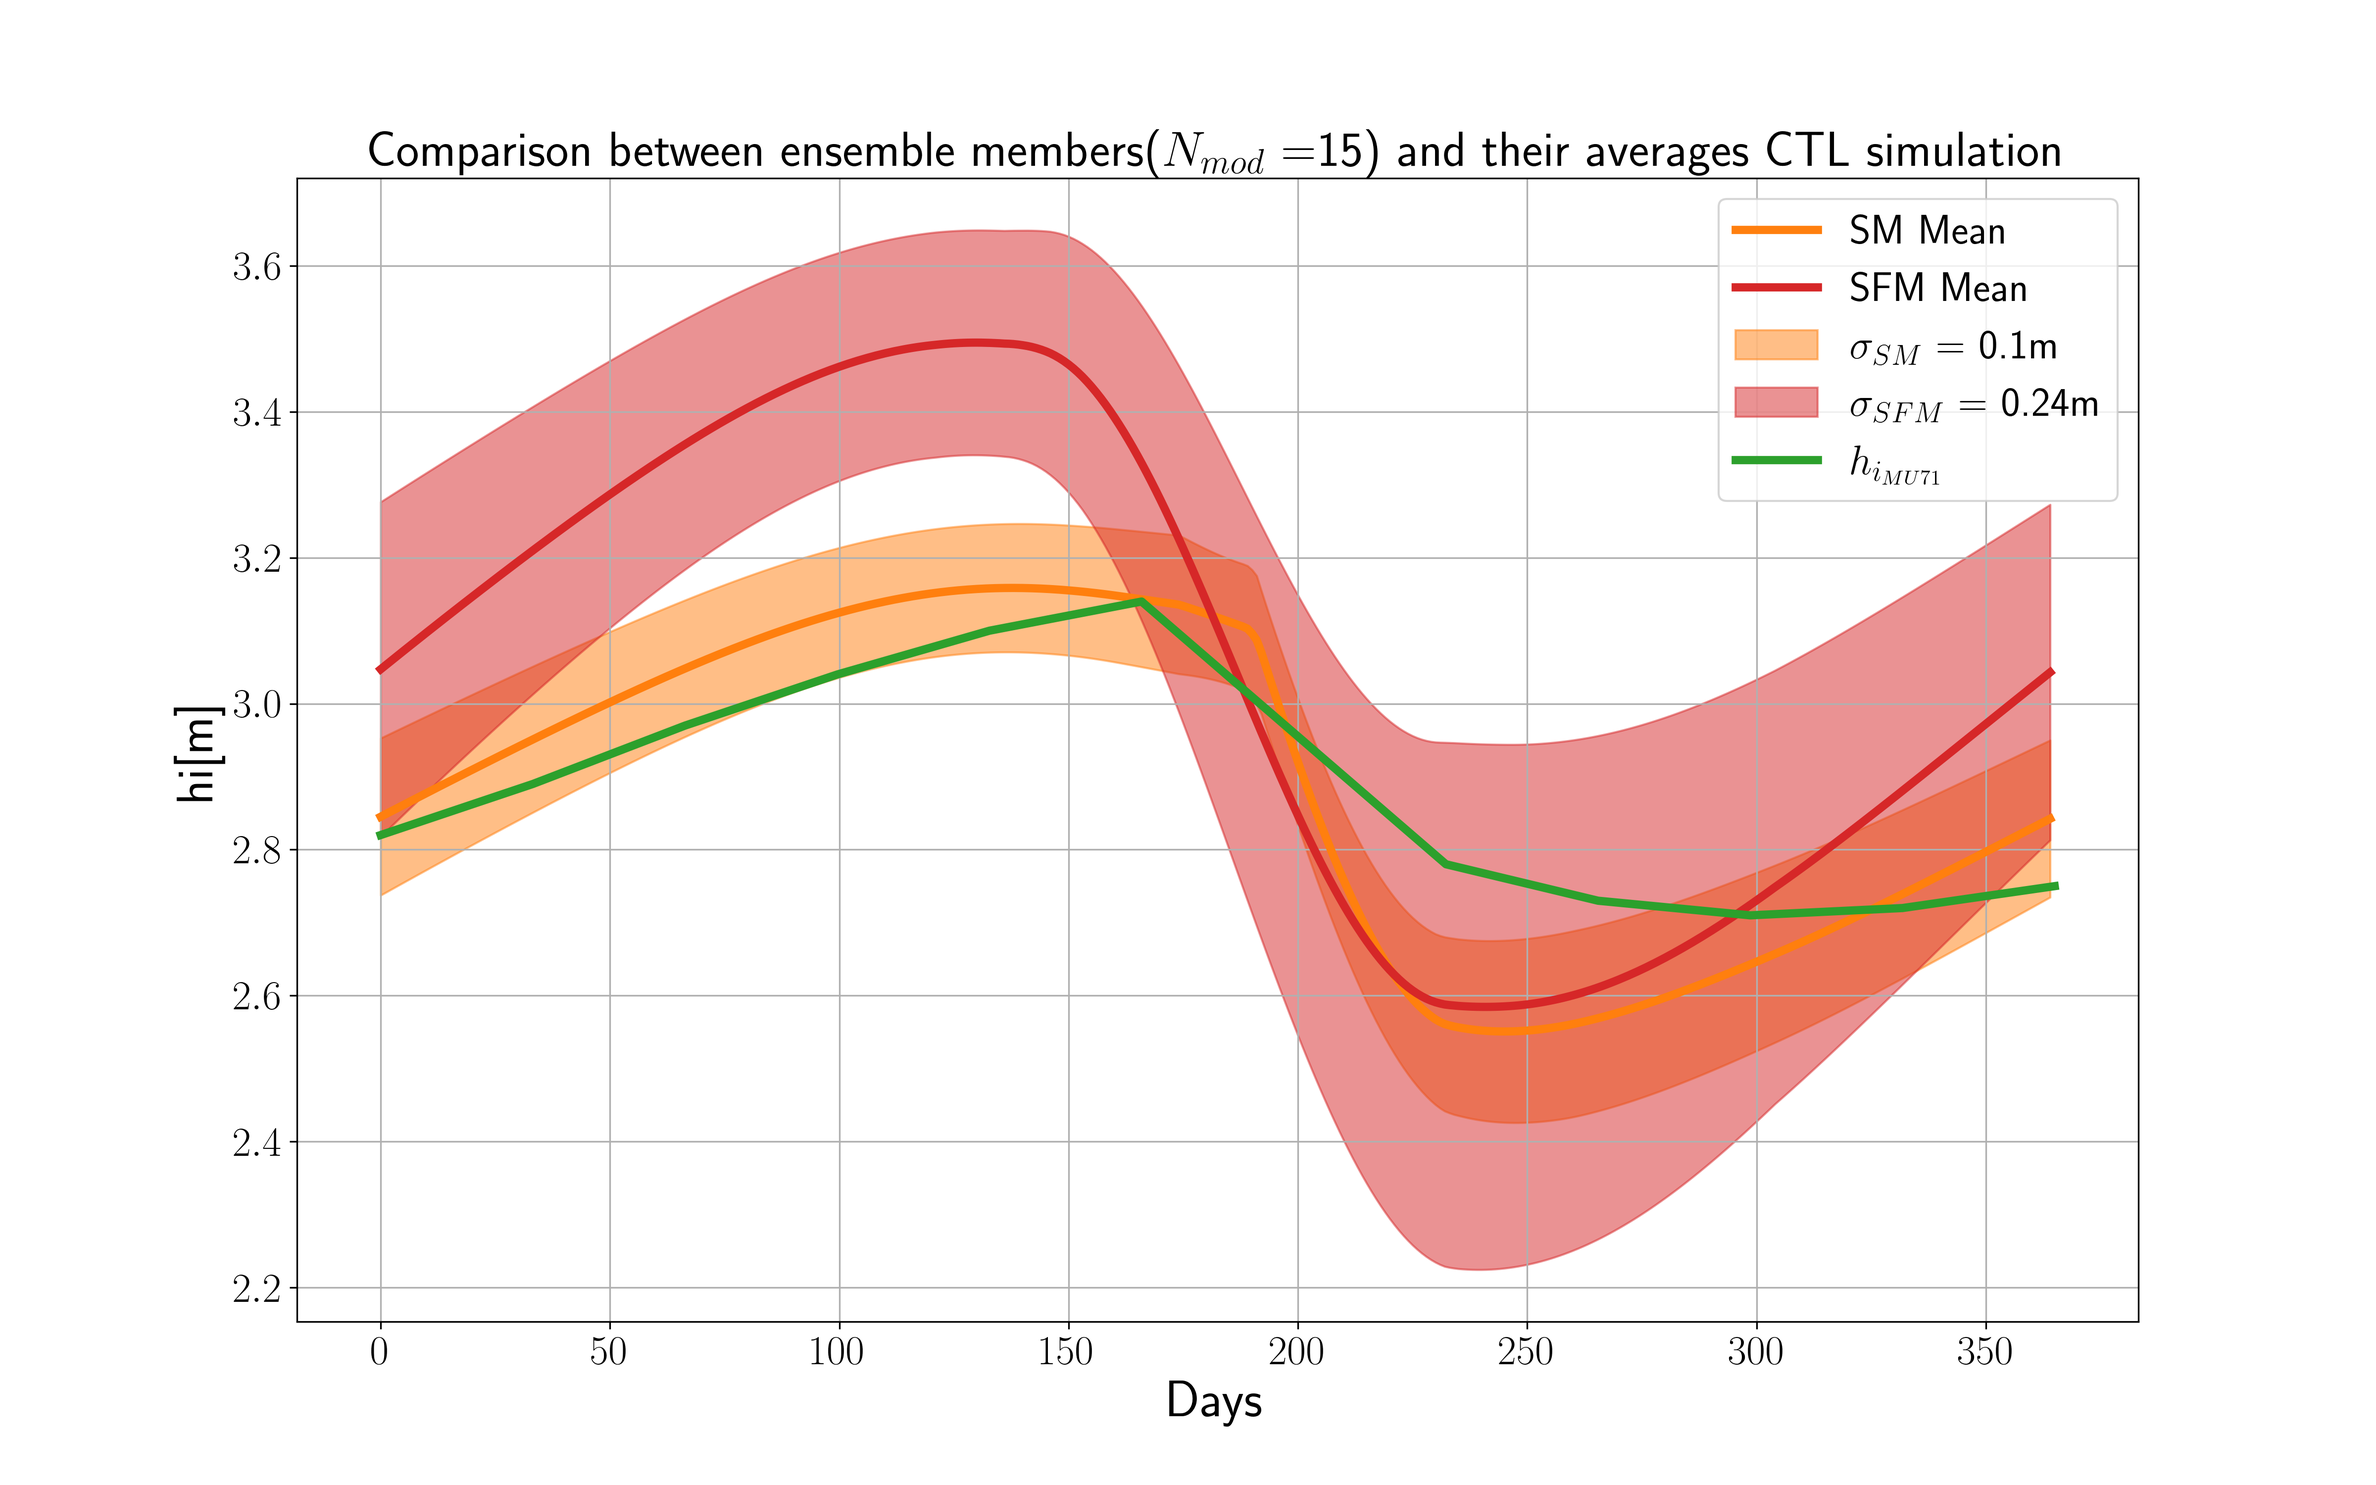
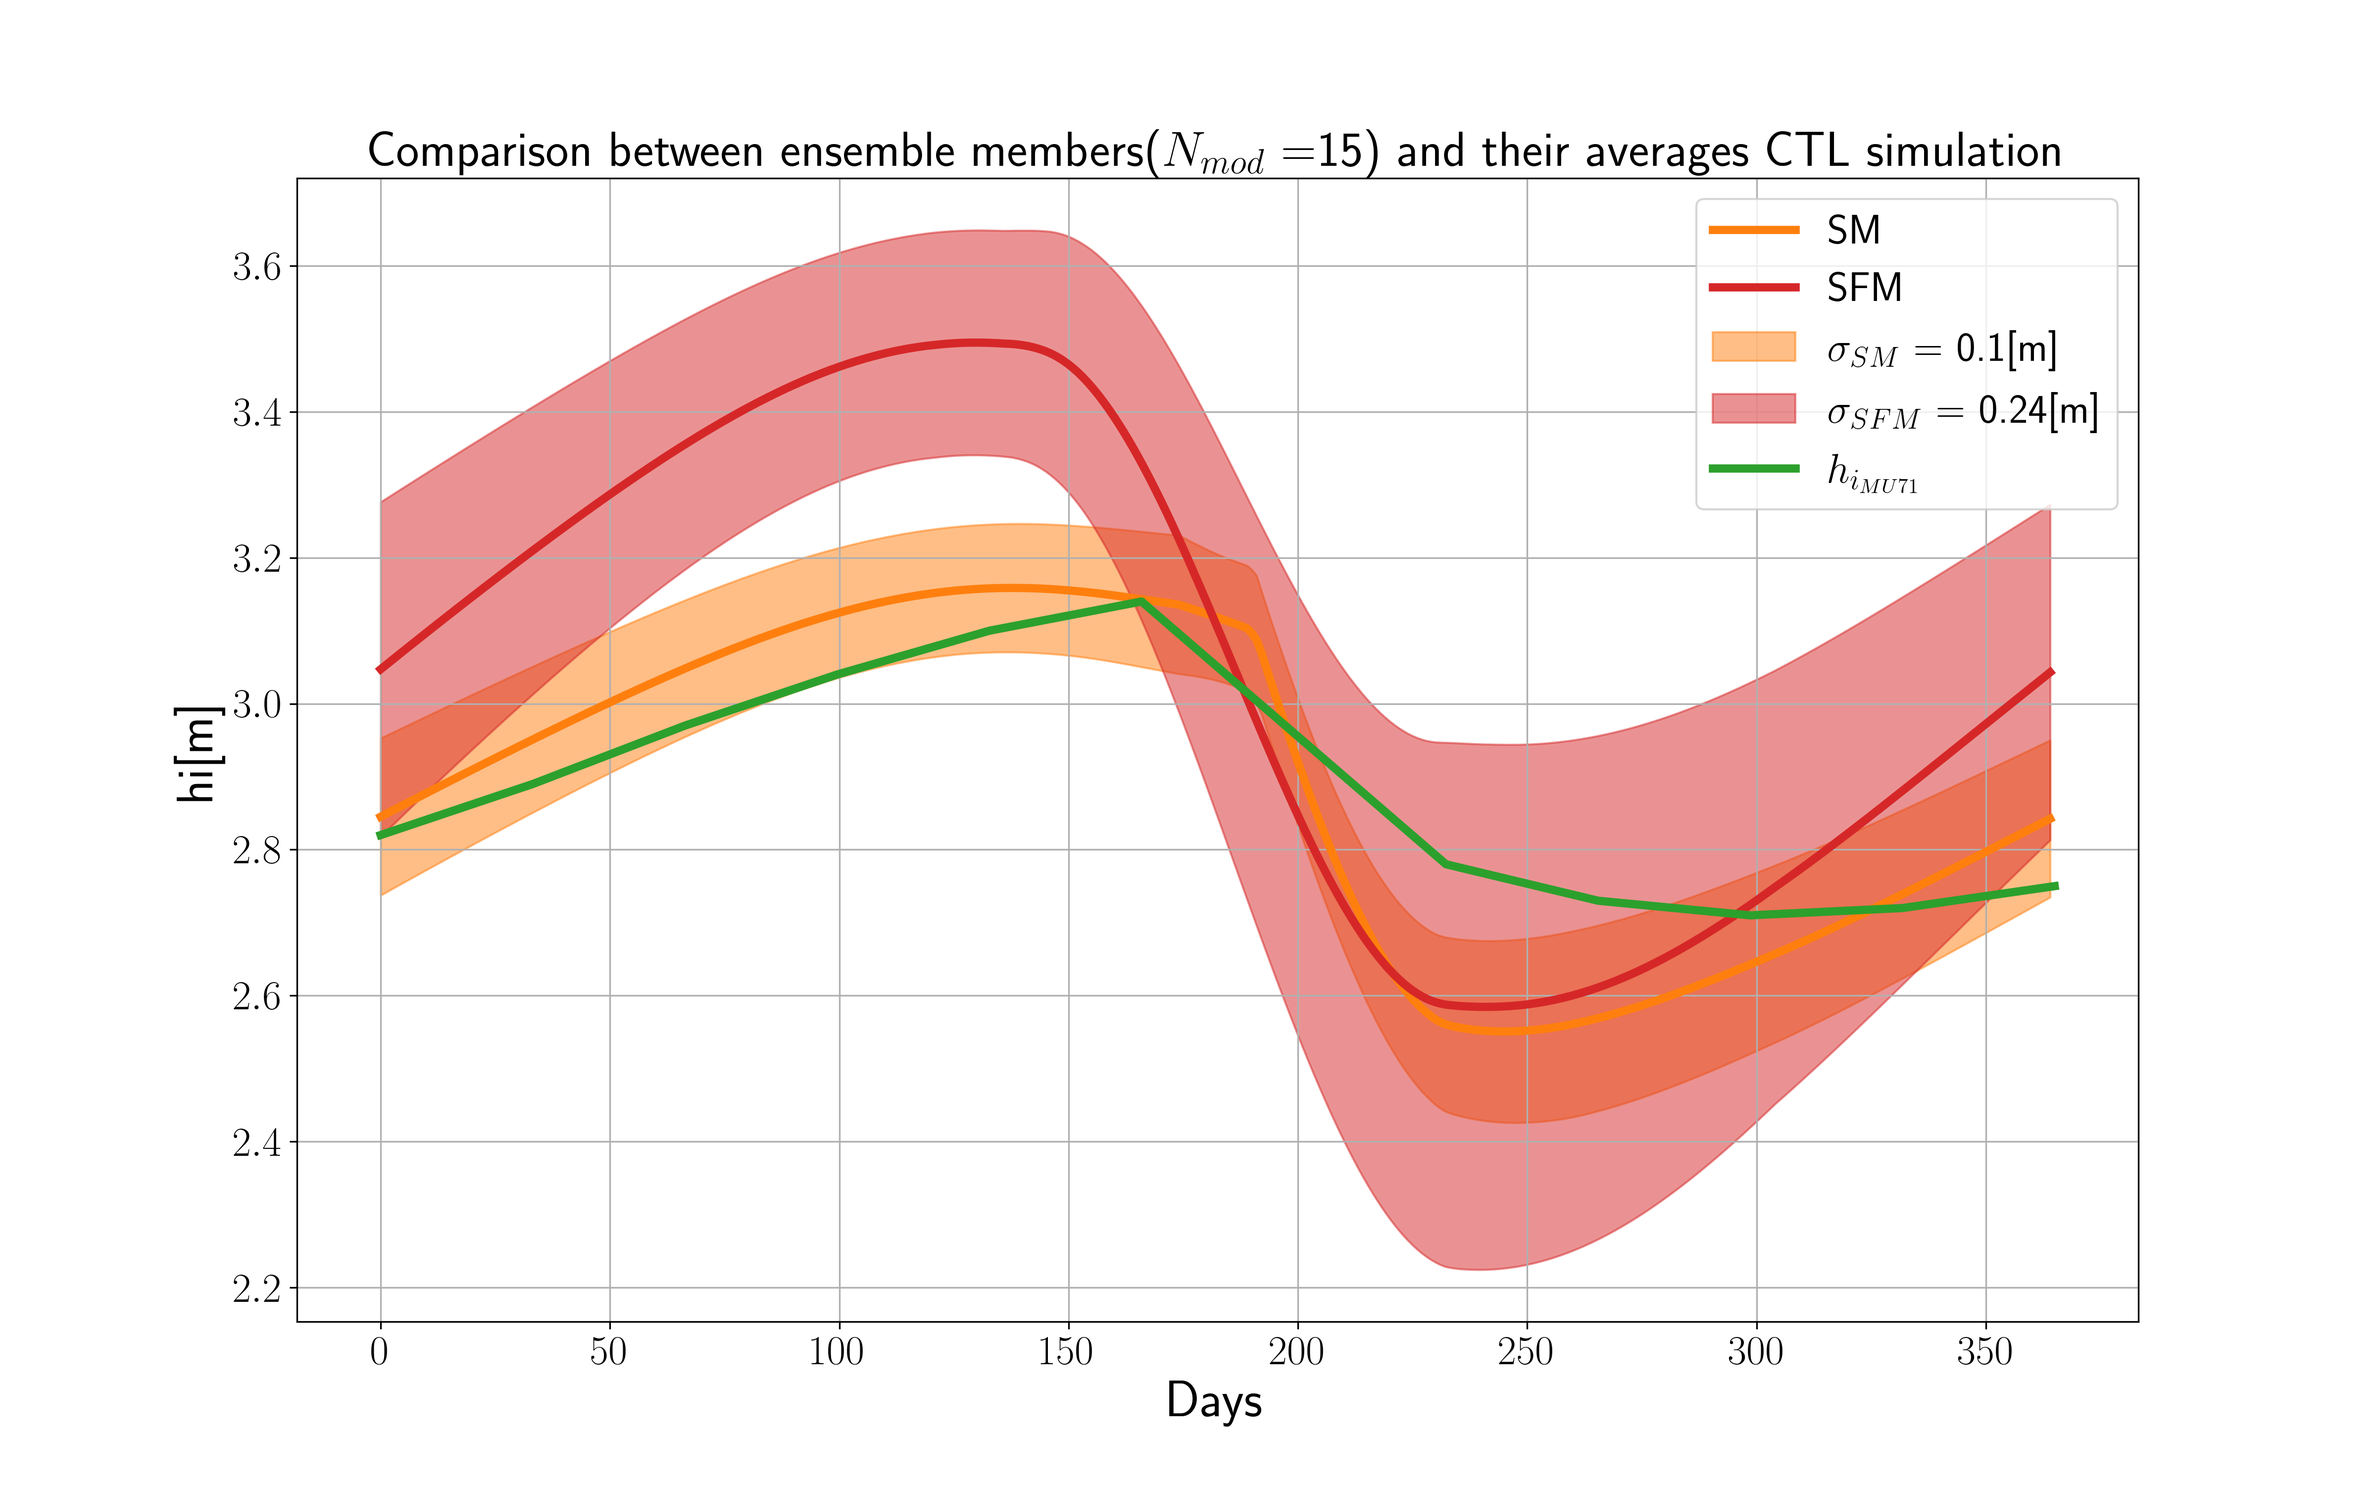
Upgrade plot_all_mod2() and subplot_all_mod2() + Figures

Changed region(s): [[0.7188, 0.124, 0.875, 0.341]]

diff --git a/Ensemble Projections/data_analysis.py b/Ensemble Projections/data_analysis.py
@@ -639,18 +639,31 @@ def plot_all_mod2(
         unit = "[°K]"
     N_mod_str = str(N_mod)
 
+    if (
+        data_name == "hi"
+        or data_name == "hi_mean_month"
+        or data_name == "himax"
+        or data_name == "himean"
+        or data_name == "himin"
+    ):
+        unit = "[m]"
+    if data_name == "Tsu" or data_name == "Tsu_mean_month" or data_name == "Tsumin":
+        unit = "[°K]"
+    if data_name == "hs" or data_name == "hs_mean_month" or data_name == "hsmax":
+        unit = "[m]"
     ####### - Plots - ######
 
     ##- Individuals models - ##
     if display_single_models:
         # without snow
-        plt.plot(
-            time_range,
-            np.take(data, model_index_without_snow, axis=1),
-            alpha=0.6,
-            linewidth=1 * lab_size_fact_mod,
-            color="tab:red",
-        )
+        if data_name != "hs":
+            plt.plot(
+                time_range,
+                np.take(data, model_index_without_snow, axis=1),
+                alpha=0.6,
+                linewidth=1 * lab_size_fact_mod,
+                color="tab:red",
+            )
         # with snow
         plt.plot(
             time_range,
@@ -670,13 +683,14 @@ def plot_all_mod2(
         label=r"SM",
     )
     # Without snow
-    plt.plot(
-        time_range,
-        np.mean(np.take(data, model_index_without_snow, axis=1), axis=1),
-        linewidth=4 * lab_size_fact,
-        color="tab:red",
-        label=r"SFM",
-    )
+    if data_name != "hs":
+        plt.plot(
+            time_range,
+            np.mean(np.take(data, model_index_without_snow, axis=1), axis=1),
+            linewidth=4 * lab_size_fact,
+            color="tab:red",
+            label=r"SFM",
+        )
 
     ## - Std - ##
 
@@ -692,45 +706,67 @@ def plot_all_mod2(
         + np.std(np.delete(data, model_index_without_snow, axis=1), axis=1),
         alpha=0.5,
         color="tab:orange",
-        label=r"$\sigma_{SM}$ = " + str(mean_std) + r"m",
+        label=r"$\sigma_{SM}$ = " + str(mean_std) + unit,
     )
-
-    # Without snow
-    mean_std = round(
-        np.mean(np.std(np.take(data, model_index_without_snow, axis=1), axis=1)), 2
-    )
-    plt.fill_between(
-        time_range,
-        np.mean(np.take(data, model_index_without_snow, axis=1), axis=1)
-        - np.std(np.take(data, model_index_without_snow, axis=1), axis=1),
-        np.mean(np.take(data, model_index_without_snow, axis=1), axis=1)
-        + np.std(np.take(data, model_index_without_snow, axis=1), axis=1),
-        alpha=0.5,
-        color="tab:red",
-        label=r"$\sigma_{SFM}$ = " + str(mean_std) + r"m",
-    )
+    if data_name != "hs":
+        # Without snow
+        mean_std = round(
+            np.mean(np.std(np.take(data, model_index_without_snow, axis=1), axis=1)), 2
+        )
+        plt.fill_between(
+            time_range,
+            np.mean(np.take(data, model_index_without_snow, axis=1), axis=1)
+            - np.std(np.take(data, model_index_without_snow, axis=1), axis=1),
+            np.mean(np.take(data, model_index_without_snow, axis=1), axis=1)
+            + np.std(np.take(data, model_index_without_snow, axis=1), axis=1),
+            alpha=0.5,
+            color="tab:red",
+            label=r"$\sigma_{SFM}$ = " + str(mean_std) + unit,
+        )
 
     #### - Ensemble model Mean - ####
     if model_mean:
         ## - Mean - ##
+        mean_ENS = mean_all_mod(data)
         plt.plot(
             time_range,
-            np.mean(data, axis=1),
+            mean_ENS,
             linewidth=4 * lab_size_fact,
             color="tab:blue",
             label=r"ENS",
         )
 
         ## - Std - ##
-        mean_std = round(np.mean(np.std(data, axis=1)), 2)
-        plt.fill_between(
-            time_range,
-            np.mean(data, axis=1) - np.std(data, axis=1),
-            np.mean(data, axis=1) + np.std(data, axis=1),
-            alpha=0.5,
-            color="tab:blue",
-            label=r"$\sigma_{ENS}$ = " + str(mean_std) + r"m",
-        )
+        if data_name == "hs":
+            # print("mean_ENS", mean_ENS)
+            std = np.std(mean_ENS)
+            # print(std)
+            std_round = round(std, 2)
+            std_str = str(std_round)
+
+            plt.fill_between(
+                time_range,
+                mean_ENS - std,
+                mean_ENS + std,
+                alpha=0.5,
+                color="tab:blue",
+                label=r"$\sigma_{ENS}$ = " + std_str + unit,
+            )
+        else:
+            # print("data", data)
+            std = np.mean(np.std(data, axis=1))
+            # print(std)
+            std_round = round(std, 2)
+            std_str = str(std_round)
+            # mean_std = round(np.mean(np.std(data, axis=1)), 2)
+            plt.fill_between(
+                time_range,
+                np.mean(data, axis=1) - np.std(data, axis=1),
+                np.mean(data, axis=1) + np.std(data, axis=1),
+                alpha=0.5,
+                color="tab:blue",
+                label=r"$\sigma_{ENS}$ = " + std_str + unit,
+            )
 
     ## - MU71 - ##
     if data_name == "hi":
@@ -770,18 +806,6 @@ def plot_all_mod2(
         size=24 * lab_size_fact,
     )
     plt.xlabel(label_x, size=25 * lab_size_fact)
-    if (
-        data_name == "hi"
-        or data_name == "hi_mean_month"
-        or data_name == "himax"
-        or data_name == "himean"
-        or data_name == "himin"
-    ):
-        unit = "[m]"
-    if data_name == "Tsu" or data_name == "Tsu_mean_month" or data_name == "Tsumin":
-        unit = "[°K]"
-    if data_name == "hs" or data_name == "hs_mean_month" or data_name == "hsmax":
-        unit = "[m]"
     plt.ylabel(data_name + unit, size=25 * lab_size_fact)
     plt.xticks(fontsize=20 * lab_size_fact)
     plt.yticks(fontsize=20 * lab_size_fact)
@@ -889,7 +913,7 @@ def subplot_all_mod(data1, data2, data3, data_name, N_mod, extra_label):
 
 
 def subplot_all_mod2(data, data_name, N_mod, extra_label, display_single_models=False):
-    figure = plt.figure(figsize=(16, 10))
+    fig = plt.figure(figsize=(16, 10))
     # gs = gridspec.GridSpec(2, 2, wspace=0.25, hspace=0.1, left=0.001, right=0.98)
 
     if data_name == "hi_mean_month":
@@ -920,7 +944,7 @@ def subplot_all_mod2(data, data_name, N_mod, extra_label, display_single_models=
 
     ####### - Plots - ######
 
-    fig = plt.figure()
+    # fig = plt.figure()
     """ ax1 = plt.subplot(2,2,1)
     ax2 = plt.subplot(2,2,2)
     ax3 = plt.subplot(2,1,2)
@@ -931,7 +955,7 @@ def subplot_all_mod2(data, data_name, N_mod, extra_label, display_single_models=
     ax3 = plt.subplot2grid((4, 4), (3, 0), colspan=2)
     ax4 = plt.subplot2grid((4, 4), (3, 2), colspan=2)
     axs = [ax1, ax2, ax3, ax4]
-    gs = gridspec.GridSpec(2, 2, wspace=0.25, hspace=0.5, left=0.001, right=0.98)
+    plt.subplots_adjust(bottom=0.08, right=0.97, left=0.09, top=0.9)
 
     ##### - Left subplots - ####
     ##- Individuals models - ##
@@ -985,7 +1009,7 @@ def subplot_all_mod2(data, data_name, N_mod, extra_label, display_single_models=
         + np.std(np.delete(data, model_index_without_snow, axis=1), axis=1),
         alpha=0.5,
         color="tab:orange",
-        label=r"$\sigma_{SM}$ = " + str(mean_std) + r"m",
+        label=r"$\sigma_{SM}$ = " + str(mean_std) + unit,
     )
 
     # Without snow
@@ -1000,7 +1024,7 @@ def subplot_all_mod2(data, data_name, N_mod, extra_label, display_single_models=
         + np.std(np.take(data, model_index_without_snow, axis=1), axis=1),
         alpha=0.5,
         color="tab:red",
-        label=r"$\sigma_{SFM}$ = " + str(mean_std) + r"m",
+        label=r"$\sigma_{SFM}$ = " + str(mean_std) + unit,
     )
 
     #### - Right Subplots - ####
@@ -1040,7 +1064,7 @@ def subplot_all_mod2(data, data_name, N_mod, extra_label, display_single_models=
         np.mean(data, axis=1) + np.std(data, axis=1),
         alpha=0.5,
         color="tab:blue",
-        label=r"$\sigma_{ENS}$ = " + str(mean_std) + r"m",
+        label=r"$\sigma_{ENS}$ = " + str(mean_std) + unit,
     )
 
     ## - Variation - ##
@@ -1098,45 +1122,54 @@ def subplot_all_mod2(data, data_name, N_mod, extra_label, display_single_models=
     ###### - plots parameters - ######
 
     fig.suptitle(
-        r"Comparison between ensemble members"
+        r"Comparison between ensemble members "
         + r"($N_{mod}$ ="
         + N_mod_str
         + ")"
         + r" and their averages "
         + extra_label
         + " simulation",
-        size=12 * lab_size_fact,
+        size=24 * lab_size_fact,
     )
     # axs[0].set_xlabel(label_x, size=25 * lab_size_fact)
-    axs[0].set_xlabel(label_x)
-    axs[0].set_ylabel(data_name + unit)
-    """ axs[0].set_xticks(time_range,fontsize=20 * lab_size_fact)
-    axs[0].set_yticks(fontsize=20 * lab_size_fact) """
+    # axs[0].set_xlabel(label_x, fontsize=20)
+    axs[0].set_ylabel(data_name + unit, fontsize=22)
+    axs[0].tick_params(axis="x", labelsize=20)
+    axs[0].tick_params(axis="y", labelsize=20)
     axs[0].grid()
-    axs[0].legend(fontsize=10 * lab_size_fact)
+    if data_name == "hi":
+        axs[0].set_ylim(2.1, 3.75)
+    axs[0].legend(fontsize=21 * lab_size_fact)
 
-    axs[1].set_xlabel(label_x)
-    axs[1].set_ylabel(data_name + unit)
-    """ axs[1].set_xticks(fontsize=20 * lab_size_fact)
-    axs[1].set_yticks(fontsize=20 * lab_size_fact) """
+    # axs[1].set_xlabel(label_x, fontsize=20)
+    # axs[1].set_ylabel(data_name + unit, fontsize=20)
+    axs[1].tick_params(axis="x", labelsize=20)
+    axs[1].tick_params(axis="y", labelsize=20)
     axs[1].grid()
-    axs[1].legend(fontsize=10 * lab_size_fact)
+    if data_name == "hi":
+        axs[1].set_ylim(2.1, 3.75)
+    axs[1].legend(fontsize=21 * lab_size_fact)
 
-    axs[2].set_xlabel(label_x)
-    axs[2].set_ylabel("Variation [cm/days]")
-    """ axs[1].set_xticks(fontsize=20 * lab_size_fact)
-    axs[1].set_yticks(fontsize=20 * lab_size_fact) """
+    axs[2].set_xlabel(label_x, fontsize=22)
+    if data_name == "hi":
+        axs[2].set_ylabel("Variation [cm/day]", fontsize=22)
+    else:
+        axs[2].set_ylabel("Variation " + unit + "/day", fontsize=22)
+    axs[2].tick_params(axis="x", labelsize=20)
+    axs[2].tick_params(axis="y", labelsize=20)
     axs[2].grid()
-    axs[2].legend(fontsize=10 * lab_size_fact)
-    axs[2].set_ylim(-2, 0.75)
+    axs[2].legend(fontsize=21 * lab_size_fact)
+    if data_name == "hi":
+        axs[2].set_ylim(-2, 0.75)
 
-    axs[3].set_xlabel(label_x)
-    axs[3].set_ylim(-2, 0.75)
-    axs[3].set_ylabel("Variation [cm/days]")
-    """ axs[1].set_xticks(fontsize=20 * lab_size_fact)
-    axs[1].set_yticks(fontsize=20 * lab_size_fact) """
+    axs[3].set_xlabel(label_x, fontsize=22)
+    if data_name == "hi":
+        axs[3].set_ylim(-2, 0.75)
+    # axs[3].set_ylabel("Variation [cm/days]", fontsize=20)
+    axs[3].tick_params(axis="x", labelsize=20)
+    axs[3].tick_params(axis="y", labelsize=20)
     axs[3].grid()
-    axs[3].legend(fontsize=10 * lab_size_fact)
+    axs[3].legend(fontsize=21 * lab_size_fact)
 
     if display_single_models:
         extra_label_2 = "_dsm"
@@ -1418,12 +1451,14 @@ if __name__ == "__main__":
     )
 
     ### Computation of the month mean of the variables ###
+    """
     # hi #
     hi_mean_month = np.zeros((12, N_mod_CTL))
     for model in range(N_mod_CTL):
         hi_mean_month_mod = month_mean(hi[:, model])
         hi_mean_month[:, model] = hi_mean_month_mod
     # print(hi_mean_month)
+    """
     # hs #
     hs_mean_month = np.zeros((12, N_mod_CTL))
     for model in range(N_mod_CTL):
@@ -1541,17 +1576,54 @@ if __name__ == "__main__":
     ##### Plot of the multi-model grouped by PR scenario ######
     # summarized_projection(display_single_models=False, save=True)
     ##### Plot of the multi-model grouped for CTL with DS ######
-    """plot_all_mod2(
+    plot_all_mod2(
         data=hi,
         data_name="hi",
         N_mod=N_mod_CTL,
         extra_label="CTL",
         display_single_models=False,
         model_mean=False,
-    )"""
+    )
+    plot_all_mod2(
+        data=hs,
+        data_name="hs",
+        N_mod=N_mod_CTL,
+        extra_label="CTL",
+        display_single_models=True,
+        model_mean=True,
+    )
+    plot_all_mod2(
+        data=Tsu,
+        data_name="Tsu",
+        N_mod=N_mod_CTL,
+        extra_label="CTL",
+        display_single_models=False,
+        model_mean=True,
+    )
     subplot_all_mod2(
         data=hi,
         data_name="hi",
+        N_mod=N_mod_CTL,
+        extra_label="CTL",
+        display_single_models=False,
+    )
+    subplot_all_mod2(
+        data=hi_mean_month,
+        data_name="hi_mean_month",
+        N_mod=N_mod_CTL,
+        extra_label="CTL",
+        display_single_models=False,
+    )
+    subplot_all_mod2(
+        data=Tsu,
+        data_name="Tsu",
+        N_mod=N_mod_CTL,
+        extra_label="CTL",
+        display_single_models=False,
+    )
+    subplot_all_mod2(
+        data=Tw,
+        data_name="Tw",
         N_mod=N_mod_CTL,
         extra_label="CTL",
         display_single_models=False,
